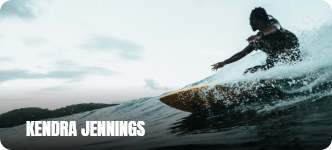
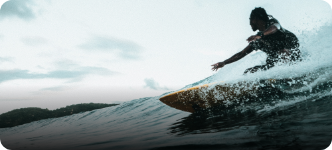
edit background and text

Changed region(s): [[0.0602, 0.8, 0.4518, 0.9067]]

diff --git a/index.html b/index.html
@@ -18,6 +18,10 @@
 			a {
 				color: #13262d !important;
 			}
+			tr td {
+				padding-top: 0;
+				padding-bottom: 5px;
+			}
 			.container {
 				width: 100%;
 				margin: 0;
@@ -35,18 +39,49 @@
 				background-color: #ffffff;
 			}
 			.cell-style {
-				padding: 67px 22px 67px 22px;
+				padding: 67px 20px 67px 20px;
 				vertical-align: top;
 				text-align: center;
-			}
-			tr td {
-				padding-top: 0;
-				padding-bottom: 5px;
 			}
 			.font-format {
 				font-family: 'SF Pro Text', -apple-system, BlinkMacSystemFont, Roboto, 'Segoe UI', Helvetica, Arial,
 					sans-serif, 'Apple Color Emoji', 'Segoe UI Emoji', 'Segoe UI Symbol';
 				font-weight: 300;
+			}
+			.cover-img {
+				margin: 0;
+				padding: 0;
+				background-image: url('https://s7986756.sendpul.se/image/747991a0e145ac2bbe69f063a9402e69/files/emailservice/userfiles/b00fc0f5391d2a84ea708b8f4d9cc1417986756/cover-img_cb86d219.png');
+				background-repeat: no-repeat;
+				background-size: cover;
+				background-position: center;
+				width: 332px;
+				height: 150px;
+				max-width: 332px;
+			}
+			.text-on-img {
+				text-align: left;
+				color: #ffffff;
+				font-weight: 400;
+				font-family: 'Anton', 'Impact', sans-serif;
+			}
+			.img-small {
+				height: 100px;
+				width: 102px;
+				max-width: 102px;
+				background-repeat: no-repeat;
+				background-size: cover;
+				background-position: center;
+			}
+			.text-on-img-small {
+				margin-top: 15px;
+				margin-left: 10px;
+				font-size: 13px;
+			}
+			.heading-text-on-img-small {
+				font-size: 25px;
+				margin-top: 15px;
+				margin-left: 40px;
 			}
 			.footer {
 				width: 100%;
@@ -58,8 +93,6 @@
 				.table-container {
 					width: 100% !important;
 				}
-			}
-			@media only screen and (max-width: 375px) {
 			}
 		</style>
 	</head>
@@ -76,15 +109,16 @@
 									height="31"
 									width="137"
 								/>
-
-								<img
-									style="margin-top: 61px"
-									src="https://s7986756.sendpul.se/image/747991a0e145ac2bbe69f063a9402e69/files/emailservice/userfiles/b00fc0f5391d2a84ea708b8f4d9cc1417986756/cover-img.png"
-									alt="cover image"
-									height="150"
-									width="332"
-								/>
 							</a>
+							<div
+								class="cover-img"
+								style="margin: 61px 0 0 0"
+								background="https://s7986756.sendpul.se/image/747991a0e145ac2bbe69f063a9402e69/files/emailservice/userfiles/b00fc0f5391d2a84ea708b8f4d9cc1417986756/cover-img_cb86d219.png"
+							>
+								<p class="text-on-img" style="padding-top: 115px; margin-left: 25px; font-size: 18px">
+									KENDRA JENNINGS
+								</p>
+							</div>
 							<p
 								style="
 									float: right;
@@ -163,35 +197,31 @@
 									</tr>
 								</tbody>
 							</table>
-							<table cellspacing="5" style="margin-top: 15px">
+							<table style="margin: 15px 0 0 0; border-spacing: 7px">
 								<tbody>
 									<tr>
-										<td style="padding-left: 0">
-											<a href=""
-												><img
-													src="https://s7986756.sendpul.se/image/747991a0e145ac2bbe69f063a9402e69/files/emailservice/userfiles/b00fc0f5391d2a84ea708b8f4d9cc1417986756/x3.png"
-													alt="x3 image"
-													height="105"
-													width="103"
-											/></a>
+										<td
+											style="padding-left: 1px"
+											class="img-small"
+											background="https://s7986756.sendpul.se/image/747991a0e145ac2bbe69f063a9402e69/files/emailservice/userfiles/b00fc0f5391d2a84ea708b8f4d9cc1417986756/Image_2.png"
+										>
+											<p class="text-on-img heading-text-on-img-small">x3</p>
+											<p class="text-on-img text-on-img-small">TRICKING</p>
 										</td>
-										<td>
-											<a href=""
-												><img
-													src="https://s7986756.sendpul.se/image/747991a0e145ac2bbe69f063a9402e69/files/emailservice/userfiles/b00fc0f5391d2a84ea708b8f4d9cc1417986756/x10.png"
-													alt="x10 image"
-													height="105"
-													width="103"
-											/></a>
+										<td
+											class="img-small"
+											background="https://s7986756.sendpul.se/image/747991a0e145ac2bbe69f063a9402e69/files/emailservice/userfiles/b00fc0f5391d2a84ea708b8f4d9cc1417986756/Image_2.png"
+										>
+											<p class="text-on-img heading-text-on-img-small">x10</p>
+											<p class="text-on-img text-on-img-small">BOXING</p>
 										</td>
-										<td style="padding-right: 0">
-											<a href=""
-												><img
-													src="https://s7986756.sendpul.se/image/747991a0e145ac2bbe69f063a9402e69/files/emailservice/userfiles/b00fc0f5391d2a84ea708b8f4d9cc1417986756/x1.png"
-													alt="x1 image"
-													height="105"
-													width="103"
-											/></a>
+										<td
+											style="padding-right: 1px"
+											class="img-small"
+											background="https://s7986756.sendpul.se/image/747991a0e145ac2bbe69f063a9402e69/files/emailservice/userfiles/b00fc0f5391d2a84ea708b8f4d9cc1417986756/Image_2.png"
+										>
+											<p class="text-on-img heading-text-on-img-small">x1</p>
+											<p class="text-on-img text-on-img-small">DANCE</p>
 										</td>
 									</tr>
 								</tbody>
